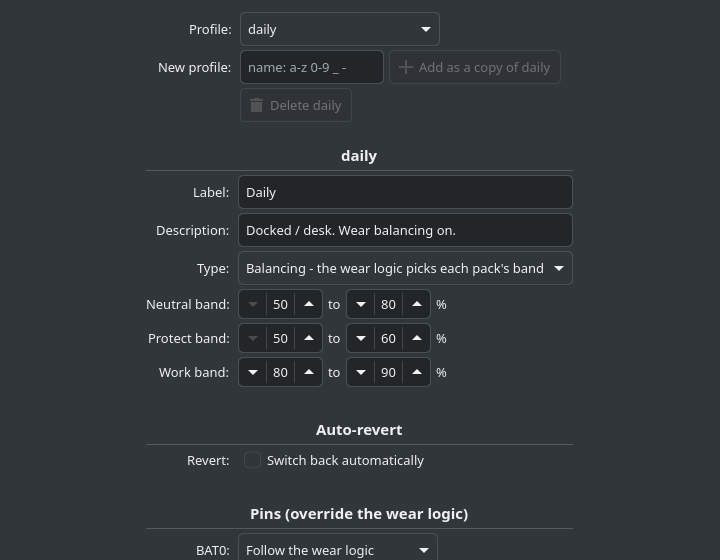
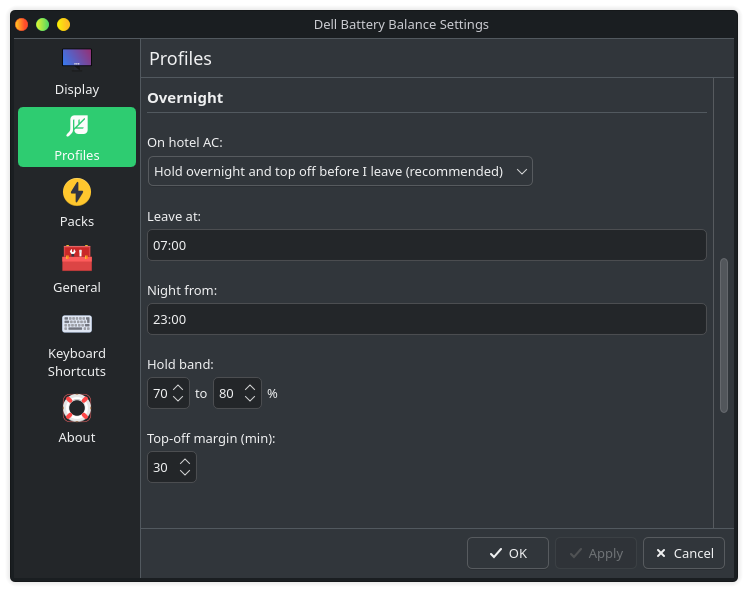
0.4.0: applet screenshots (holding popup, Conference profile page, revert warning), test count 325
Captured on the installed 0.4.0 applet: the popup in the holding phase with the overnight line and quick actions, the Profiles page on the Conference type with its overnight fields, and the popup an hour before an auto-revert with Extend 24 h.

diff --git a/README.md b/README.md
@@ -711,7 +711,7 @@ Nothing is queued; new work starts from an issue.
 python3 -m unittest discover -s tests -v
 ```
 
-316 tests across twelve files (`test_wear_model.py`, `test_policy.py`,
+325 tests across twelve files (`test_wear_model.py`, `test_policy.py`,
 `test_config.py`, `test_apply.py`, `test_registry.py`, `test_cli.py`,
 `test_state.py`, `test_cli_surface.py`, `test_applet_package.py`,
 `test_metrics.py`, `test_overnight.py`, `test_wake_helper.py`), all against
